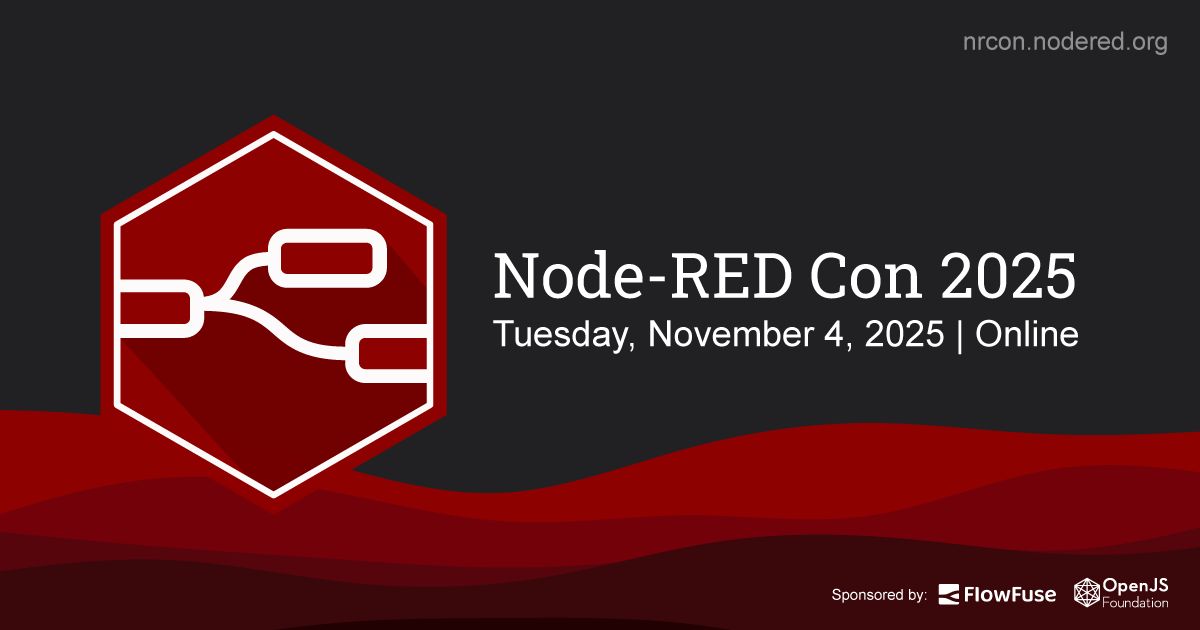
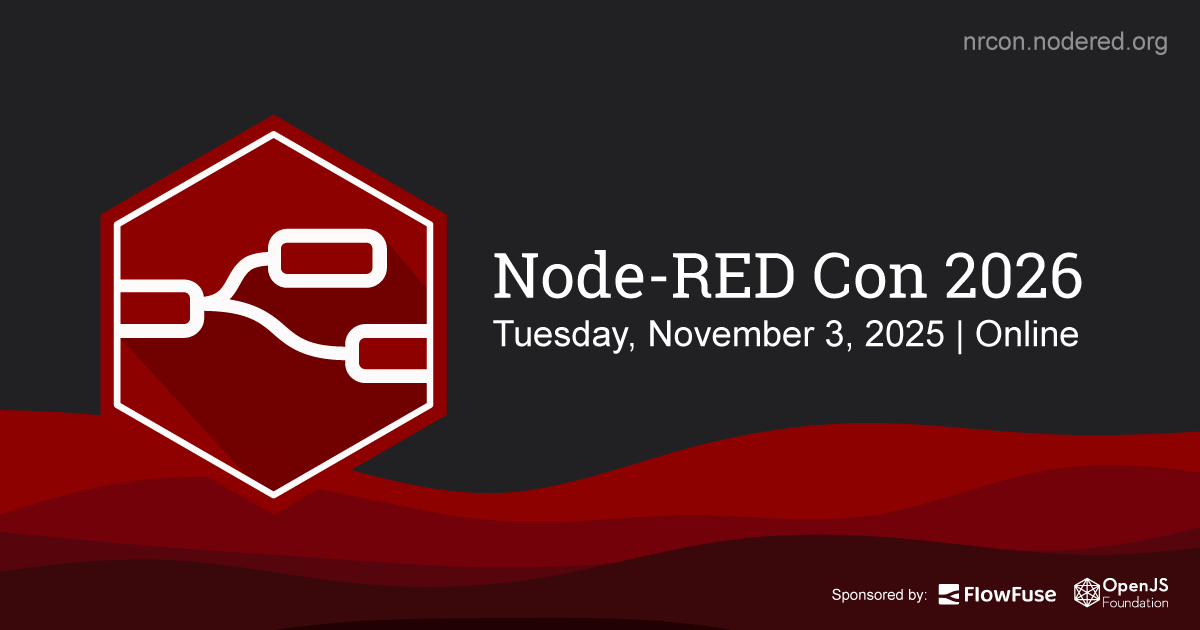
Update page

Changed region(s): [[0.4933, 0.3921, 0.925, 0.4825], [0.6783, 0.5127, 0.7092, 0.5429], [0.4317, 0.4222, 0.4625, 0.4524]]

diff --git a/index.html b/index.html
@@ -1,24 +1,24 @@
 <!DOCTYPE html>
 <html lang="en">
   <head>
-    <!-- Structured data for Node-RED Con 2025 event. Implements schema.org/Event in JSON-LD format -->
+    <!-- Structured data for Node-RED Con 2026 event. Implements schema.org/Event in JSON-LD format -->
     <script type="application/ld+json">
     {
       "@context": "https://schema.org",
       "@type": "Event",
-      "name": "Node-RED Con 2025",
-      "startDate": "2025-11-04T14:00:00Z",
-      "endDate": "2025-11-04T20:00:00Z",
+      "name": "Node-RED Con 2026",
+      "startDate": "2026-11-03T14:00:00Z",
+      "endDate": "2026-11-03T20:00:00Z",
       "eventAttendanceMode": "https://schema.org/OnlineEventAttendanceMode",
       "eventStatus": "https://schema.org/EventScheduled",
       "location": {
         "@type": "VirtualLocation",
-        "url": "https://events.zoom.us/ev/AqhqiQ8mTK2lnAoOEH8c8TA1a_9MzVhZq_T7d1-kMHlHDt2_Qh_0~AtGCPAkmAoExiCJsd78_H_Yhh08dUSSmQS-i0v_py23w3tVC9YSEoaH1h59aULfT7wiM2DMYAbOunNlrFhEBGxt17Q"
+        "url": "https://nrcon.nodered.org"
       },
       "image": [
         "https://nrcon.nodered.org/images/nrcon.png"
       ],
-      "description": "Node-RED Con 2025 is an online conference showcasing how Node-RED drives innovation across industries. Join talks, demos, and discussions with developers and engineers.",
+      "description": "Node-RED Con 2026 is a free online conference on November 3, 2026. Join developers, engineers, and IIoT professionals exploring how Node-RED is evolving at the edge of intelligence.",
       "organizer": {
         "@type": "Organization",
         "name": "Node-RED Community",
@@ -29,15 +29,15 @@
     <!-- Required meta tags -->
     <meta charset="utf-8">
     <meta name="viewport" content="width=device-width, initial-scale=1, shrink-to-fit=no">
-    <meta name="description" content="Join Node-RED Con 2025 online on November 4. Learn how Node-RED is used in industry, smart factories, energy, and IoT solutions. Connect with developers and engineers worldwide.">
-    <meta property="og:title" content="Node-RED Con 2025 - November 4, 2025" />
+    <meta name="description" content="Node-RED Con 2026 is a free online conference on November 3, 2026. Submit a talk and share your Node-RED work with developers and engineers worldwide.">
+    <meta property="og:title" content="Node-RED Con 2026 - November 3, 2026" />
     <meta property="og:type" content="Conference" />
     <meta property="og:url" content="https://nrcon.nodered.org" />
     <meta property="og:image" content="https://nrcon.nodered.org/images/nrcon.png" />
-    <meta property="og:site_name" content="Node-RED Con 2025 - November 4" />
-    <meta property="og:description" content="Node-RED Con is our conference that brings the community together to hear all the latest news about the project, inspiring stories about how Node-RED is used to solve real problems, and lots more." />
-    <meta name="twitter:title" content="Node-RED Con 2025 - November 4, 2025">
-    <meta name="twitter:description" content="Node-RED Con is our conference that brings the community together to hear all the latest news about the project, inspiring stories about how Node-RED is used to solve real problems, and lots more.">
+    <meta property="og:site_name" content="Node-RED Con 2026 - November 3" />
+    <meta property="og:description" content="Node-RED Con brings the community together to share how Node-RED is being used to solve real problems — from factory floors to edge deployments and AI integration." />
+    <meta name="twitter:title" content="Node-RED Con 2026 - November 3, 2026">
+    <meta name="twitter:description" content="Node-RED Con brings the community together to share how Node-RED is being used to solve real problems — from factory floors to edge deployments and AI integration.">
     <meta name="twitter:image" content="https://nrcon.nodered.org/images/nrcon.png">
     <meta name="twitter:card" content="summary_large_image">
     <link rel="icon" href="favicon.ico">
@@ -45,8 +45,8 @@
     <link href='https://fonts.googleapis.com/css?family=Roboto+Slab:400,700,300,100' rel='stylesheet' type='text/css'>
     <link href="/css/style.css" rel="stylesheet">
   </head>
-  <body>
-    <!--Nav--> 
+  <body class="flex flex-col min-h-screen">
+    <!--Nav-->
     <div class="w-full bg-gray-800 sticky top-0 z-50">
       <div class="container mx-auto">
         <div class="flex items-center justify-between">
@@ -56,52 +56,48 @@
         </div>
       </div>
     </div>
-    <div class="h-full max-w-2xl mx-auto">
+    <div class="flex-grow max-w-2xl mx-auto w-full">
       <!--Main-->
       <div id="content" class="container px-8 pt-8 sm:pt-10 mx-auto space-y-12 pb-24">
+
+        <!-- HERO -->
         <div class="flex flex-col mx-auto justify-center items-center">
           <div class="w-24">
             <img src="https://nodered.org/about/resources/media/node-red-hexagon.svg" />
           </div>
           <div class="text-white space-y-1 md:space-y-2 text-center pb-3">
-            <h1 class="text-2xl sm:text-4xl">Node-RED Con 2025</h1>
-            <h2 class="text-2xl">Tuesday, November 4, 2025 | Online</h2>
-          </div>
-          <div class="w-full mt-6">
-            <div class="container m-auto text-left max-w-screen-lg flex justify-center items-center m-auto mt-3">
-              <!-- YouTube Playlist Embed -->
-              <iframe 
-                style="width: 608px; height: 342px; border-radius: 15px;" 
-                src="https://www.youtube.com/embed/videoseries?list=PLyNBB9VCLmo2yvFdVZOv41NUEzuw-CAZX" 
-                title="Node-RED Con 2025 Playlist" 
-                frameborder="0" 
-                allow="accelerometer; autoplay; clipboard-write; encrypted-media; gyroscope; picture-in-picture; web-share" 
-                referrerpolicy="strict-origin-when-cross-origin" 
-                allowfullscreen>
-              </iframe>
-            </div>
-            <div class="text-center text-white">
-              <a class="inline-block p-6 mt-6 border border-white rounded-md bg-red-800 text-2xl hover:bg-red-700" target="_blank" href="https://www.youtube.com/playlist?list=PLyNBB9VCLmo2yvFdVZOv41NUEzuw-CAZX">
-                Watch All Sessions
-              </a>
-            </div>
+            <h1 class="text-2xl sm:text-4xl">Node-RED Con 2026</h1>
+            <h2 class="text-2xl">Tuesday, November 3, 2026 | Online | Free</h2>
+            <h3 class="text-xl pt-2" style="color: #f87171;">Node-RED at the Edge of Intelligence</h3>
           </div>
         </div>
+
+        <!-- DESCRIPTION + CFP CTA -->
         <div class="mx-4 md:mx-auto items-center text-white max-w-2xl text-lg space-y-8">
           <p class="text-justify">
-            Node-RED Con 2025 brought together over 1,000 attendees from around the world for a full day showcasing how Node-RED is driving innovation across industries — from factory floors and utilities to finance and smart homes.
+            Node-RED Con is back for 2026. Last year the community showed up in force: 1,700+ registrants, 1,100+ live attendees, 35+ countries.
           </p>
           <p class="text-justify">
-            Watch the recordings to see talks, demos and discussions with engineers, developers and community members who are putting Node-RED to work at scale. Hear speakers share their experiences, lessons learned and the challenges they've overcome.
+            This year's theme is <strong>Node-RED at the Edge of Intelligence</strong>. We're looking for talks that show what's possible when Node-RED meets edge computing, industrial automation, and AI. Real deployments, hard-won lessons, and the problems worth solving.
           </p>
           <p class="text-justify">
-            Catch up on what you missed and get inspired to take your own projects further.
-          </p> 
+            Speaking at Node-RED Con means reaching a global audience of developers and engineers actively building with Node-RED in production. Sessions are recorded and published: last year's talks accumulated over 3,000 views on the <a href="https://www.youtube.com/playlist?list=PLyNBB9VCLmo2yvFdVZOv41NUEzuw-CAZX" target="_blank" style="color: #f87171;">Node-RED Con 2025 playlist</a>.
+          </p>
+          <p class="text-justify">
+            <strong>The Call for Papers is open. Submit your talk before July 31.</strong>
+          </p>
+          <div class="text-center">
+            <a class="inline-block p-6 border border-white rounded-md bg-red-800 text-2xl hover:bg-red-700" target="_blank" href="https://papercall.io/node-red-con-2026">
+              Submit a Talk
+            </a>
+            <p class="mt-4 text-gray-400 text-base">Want to be notified when registration opens? <a href="https://flowfuse.com/blog/2026/06/announcing-node-red-con-2026/#stay-in-the-loop" target="_blank" style="color: #f87171;">FlowFuse will let you know — sign up here.</a></p>
+          </div>
         </div>
+
       </div>
     </div>
     <!--Footer-->
-    <div class="w-full bg-gray-800 sticky bottom-0">
+    <div class="w-full bg-gray-800 fixed bottom-0">
       <div class="container mx-auto">
         <div class="flex flex-col lg:flex-row items-center justify-between">
           <div class="flex justify-start content-center">

diff --git a/css/style.css b/css/style.css
@@ -556,6 +556,10 @@ video {
   }
 }
 
+.fixed {
+  position: fixed;
+}
+
 .sticky {
   position: sticky;
 }
@@ -582,8 +586,8 @@ video {
   margin-right: auto;
 }
 
-.mt-6 {
-  margin-top: 1.5rem;
+.mt-4 {
+  margin-top: 1rem;
 }
 
 .inline-block {
@@ -602,8 +606,8 @@ video {
   height: 2.5rem;
 }
 
-.h-full {
-  height: 100%;
+.min-h-screen {
+  min-height: 100vh;
 }
 
 .w-24 {
@@ -616,6 +620,10 @@ video {
 
 .max-w-2xl {
   max-width: 42rem;
+}
+
+.flex-grow {
+  flex-grow: 1;
 }
 
 .flex-col {
@@ -640,12 +648,6 @@ video {
 
 .justify-between {
   justify-content: space-between;
-}
-
-.space-x-2 > :not([hidden]) ~ :not([hidden]) {
-  --tw-space-x-reverse: 0;
-  margin-right: calc(0.5rem * var(--tw-space-x-reverse));
-  margin-left: calc(0.5rem * calc(1 - var(--tw-space-x-reverse)));
 }
 
 .space-y-1 > :not([hidden]) ~ :not([hidden]) {
@@ -706,8 +708,12 @@ video {
   padding-bottom: 6rem;
 }
 
-.pt-4 {
-  padding-top: 1rem;
+.pb-3 {
+  padding-bottom: 0.75rem;
+}
+
+.pt-2 {
+  padding-top: 0.5rem;
 }
 
 .pt-8 {
@@ -727,6 +733,11 @@ video {
   line-height: 2rem;
 }
 
+.text-base {
+  font-size: 1rem;
+  line-height: 1.5rem;
+}
+
 .text-lg {
   font-size: 1.125rem;
   line-height: 1.75rem;
@@ -742,13 +753,14 @@ video {
   color: rgb(243 244 246 / var(--tw-text-opacity));
 }
 
+.text-gray-400 {
+  --tw-text-opacity: 1;
+  color: rgb(156 163 175 / var(--tw-text-opacity));
+}
+
 .text-white {
   --tw-text-opacity: 1;
   color: rgb(255 255 255 / var(--tw-text-opacity));
-}
-
-.underline {
-  text-decoration-line: underline;
 }
 
 .no-underline {
@@ -792,12 +804,6 @@ body {
 
   .sm\:h-auto {
     height: auto;
-  }
-
-  .sm\:space-x-10 > :not([hidden]) ~ :not([hidden]) {
-    --tw-space-x-reverse: 0;
-    margin-right: calc(2.5rem * var(--tw-space-x-reverse));
-    margin-left: calc(2.5rem * calc(1 - var(--tw-space-x-reverse)));
   }
 
   .sm\:pt-10 {
